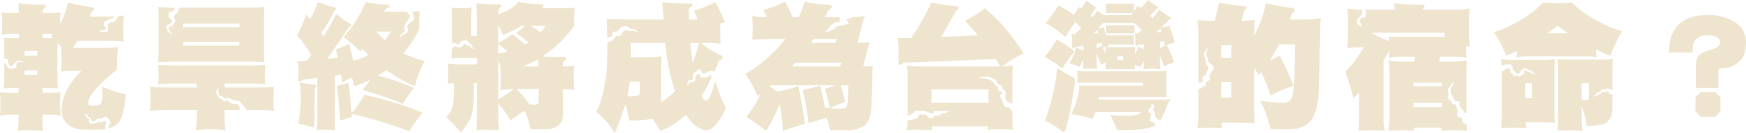
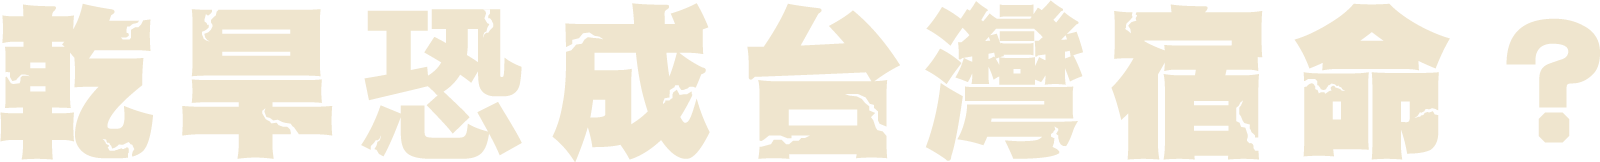
doc: 更新slogan及網頁title

diff --git a/vue.config.js b/vue.config.js
@@ -4,7 +4,7 @@ module.exports = {
         config
             .plugin('html')
             .tap(args => {
-                args[0].title = '乾旱終將成為台灣的宿命？'
+                args[0].title = '《今周刊》乾旱恐成台灣宿命？ - 數位專題'
                 return args
             })
     },
